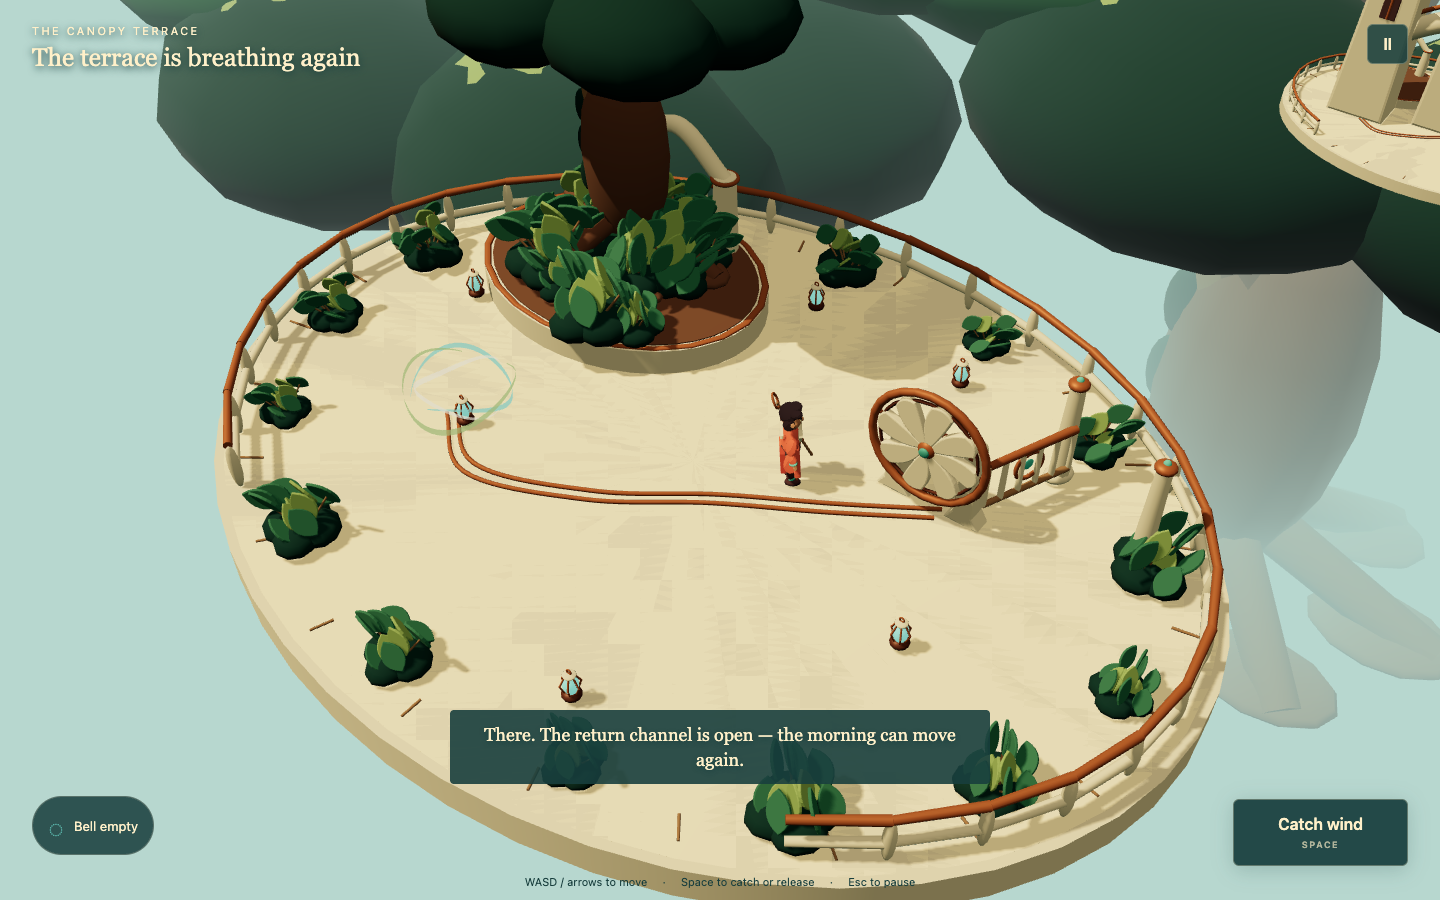
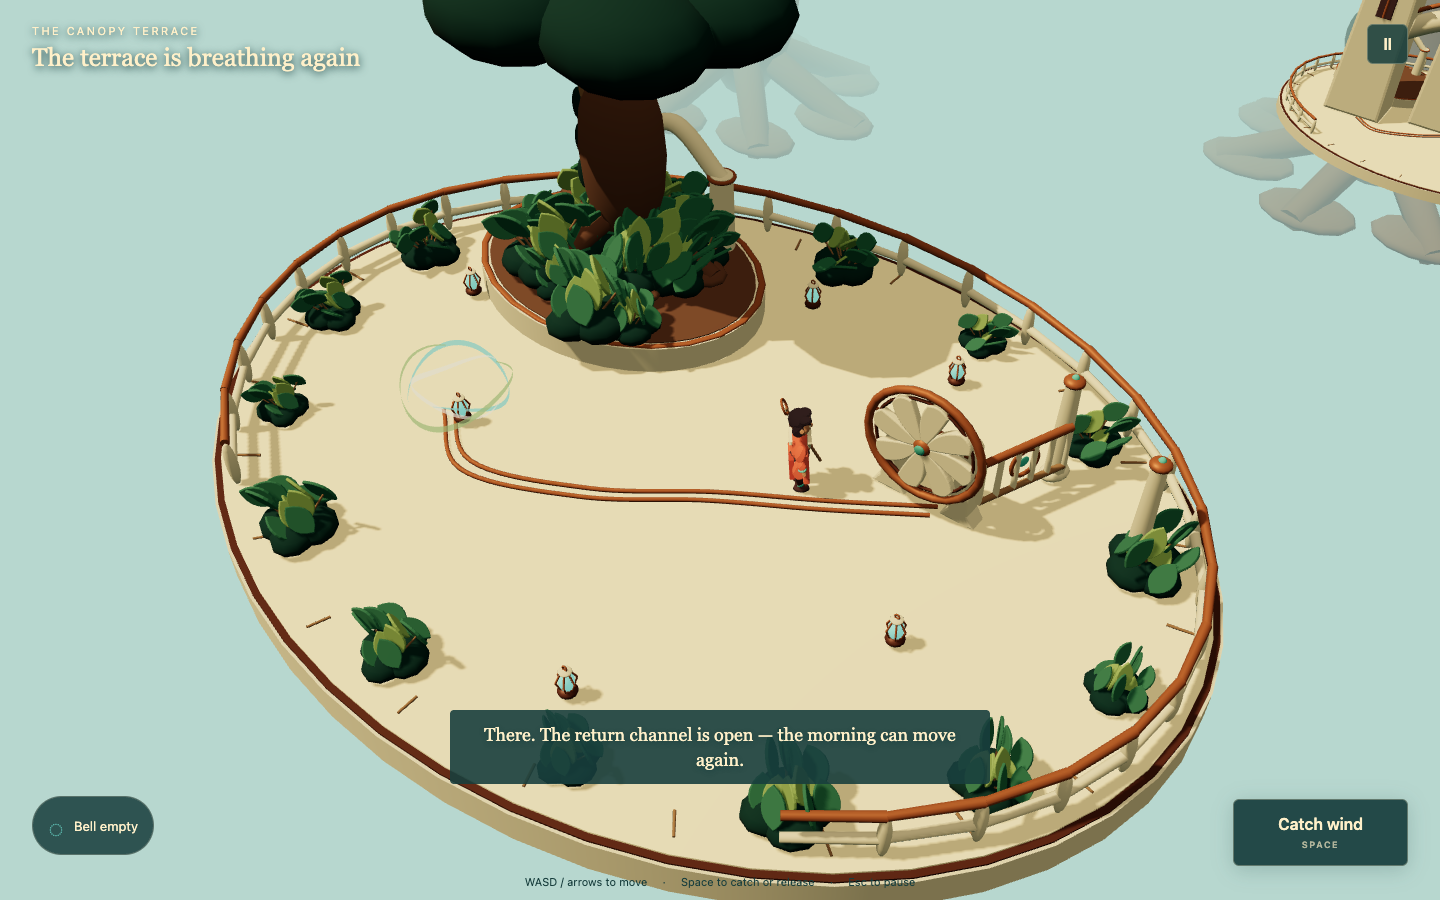
Record first playable study evidence and remaining quality gaps

diff --git a/STATUS.md b/STATUS.md
@@ -1,11 +1,13 @@
 # Status
 
-Stage: limited first-scene production, authorized16 September2026. Full-game expansion not underway.
+Stage: first playable terrace study. Full adventure expansion and final visual approval remain outstanding.
 
-Hosting smoke page verified; no playable scene deployed yet. Contract independently reviewed and omissions fixed. Recipe selftest and synthetic recording capability passed.
+Runtime build7c551c7: main character, tree terrace, source→capture→carry→release→seed wheel and gate restoration; safe pressure puff; desktop/touch movement, pause/reset, sound/motion switches. Deployed infrastructure uses GitHub Pages docs/. Public prototype is explicitly labelled a study.
 
-Atlas pilot: agent attempt failed, cost2. Direct image node succeeded5; direct SFX succeeded9. Total16, reservations0, first-scene allocation remaining484. Image downloaded and visually reviewed. Audio retrieval blocked by Chrome; no listening pass. Do not regenerate to fix retrieval. Details in evidence/process/pilot-lessons.md; original evidence retained privately.
+All27 original code candidates passed the unmodified recipe verifier; visual selection and repair history retained. Runtime real-input regressions pass capture/miss/retention/restoration/pause/reset and touch movement with no errors. Independent f9c57fb runtime retest passed closed/open/reset gate on keyboard+touch, transfer at phone scale, safe hazard reaction/charge retention/evasion and eased turning. Latest change corrects floor coplanarity, pending objective and garden collision. See evidence/test-scene reports for exact builds/limits.
 
-Active: three independent articulated hero code candidates from the inspected reference, 404 recipe path B, zero extra Atlas credits. Compare actual multi-view renders, then test selected rig in a camera/animation viewer before integrating terrace and wind mechanic. Hero reference labels and invented name rejected.
+Independent visual reviews still reject the rich final-scene target: architecture and foliage remain too simple compared with the concept. Do not expand geography or certify this as final art. Physical iPhone test and actual listening remain pending. No slopes/full route/full opening/end/release certification.
 
-Current published site is infrastructure only, not gameplay. No first-scene acceptance or full-game release claimed.
+Atlas settled pilot cost16; no subsequent paid jobs, no reservations. First-scene allocation remaining484; protected repair800 unchanged. Pilot image downloaded; Atlas SFX retrieval blocked by Chrome, not listening-approved, not shipped. Sound here is provisional original synthesis.
+
+Next bounded work: user playtest and final targeted floor/feedback check; address concrete composition and motion observations within this same scene. No new paid references are justified by the existing camera/layout defects.

diff --git a/evidence/process/work-orders.md b/evidence/process/work-orders.md
@@ -1,0 +1,10 @@
+# First-scene bounded work orders
+
+Base build a8e0a8568f4165531c5f350e4dde20102f672425. Authority STYLE.md, ACCEPTANCE.md, user-approved one-scene scope; original inspected Atlas reference retained privately. All authoring allocations0 Atlas credits. At most lead plus two active workers; no nested agents.
+
+1. HeroA lead primitives; HeroB independent profiles/extrusions; HeroC independent sculpted masses/split coat. Each owned a separate scratch folder, did not read the other candidates, delivered one code-only recipe module, expected1.35m size, real articulated pivots/right-hand socket, multi-view verification and notes. Acceptance PROC03/ART02/ANIM01. Static verification did not approve motion.
+2. EnvironmentA lead primitives; B independent profiles/sweeps; C organic carved interpretation. Eight modules each: terrace/tree/staff/wheel/lantern/foliage/gate/windworks, declared dimensions, palette, rotor/door pivot interfaces. Every module reference-derived with explicitly interpreted obscured mechanism. Run official verifier, inspect all sides, fix observed defects. Acceptance TEST01/08. No runtime approval inferred.
+3. Lead selected by actual sheets and implemented local scene, controls, wind states, safe hazard, animation, shared shading, loading and telemetry; owns runtime. Normal keyboard/pointer/touch tests and local self-contained deployment paths required. No full-adventure expansion.
+4. Independent runtime reviewer (authoredB, not selectedC hero) reviewed only lead-authored interaction/animation, excluded self-authored geometry verdicts. Independent separate visual/story reviewer did not implement assets/runtime. Both got immutable build, reference/evidence paths, acceptance IDs, executable real-input route and explicit permission to fail; asked worst defect/repro/repair condition. Reports preserve failures at b5eb674, affected retests at f9c57fb, final bounded check7c551c7.
+
+Repair sequence: closed-gate collision, transfer current, pressure reaction, eased turns; stronger source/phone targeting; curved paired channels/raised garden/rear arch; coplanar deck removal; stable pending objective. Preserve original candidates and failed evidence; do not relabel a repair as an independent candidate.
